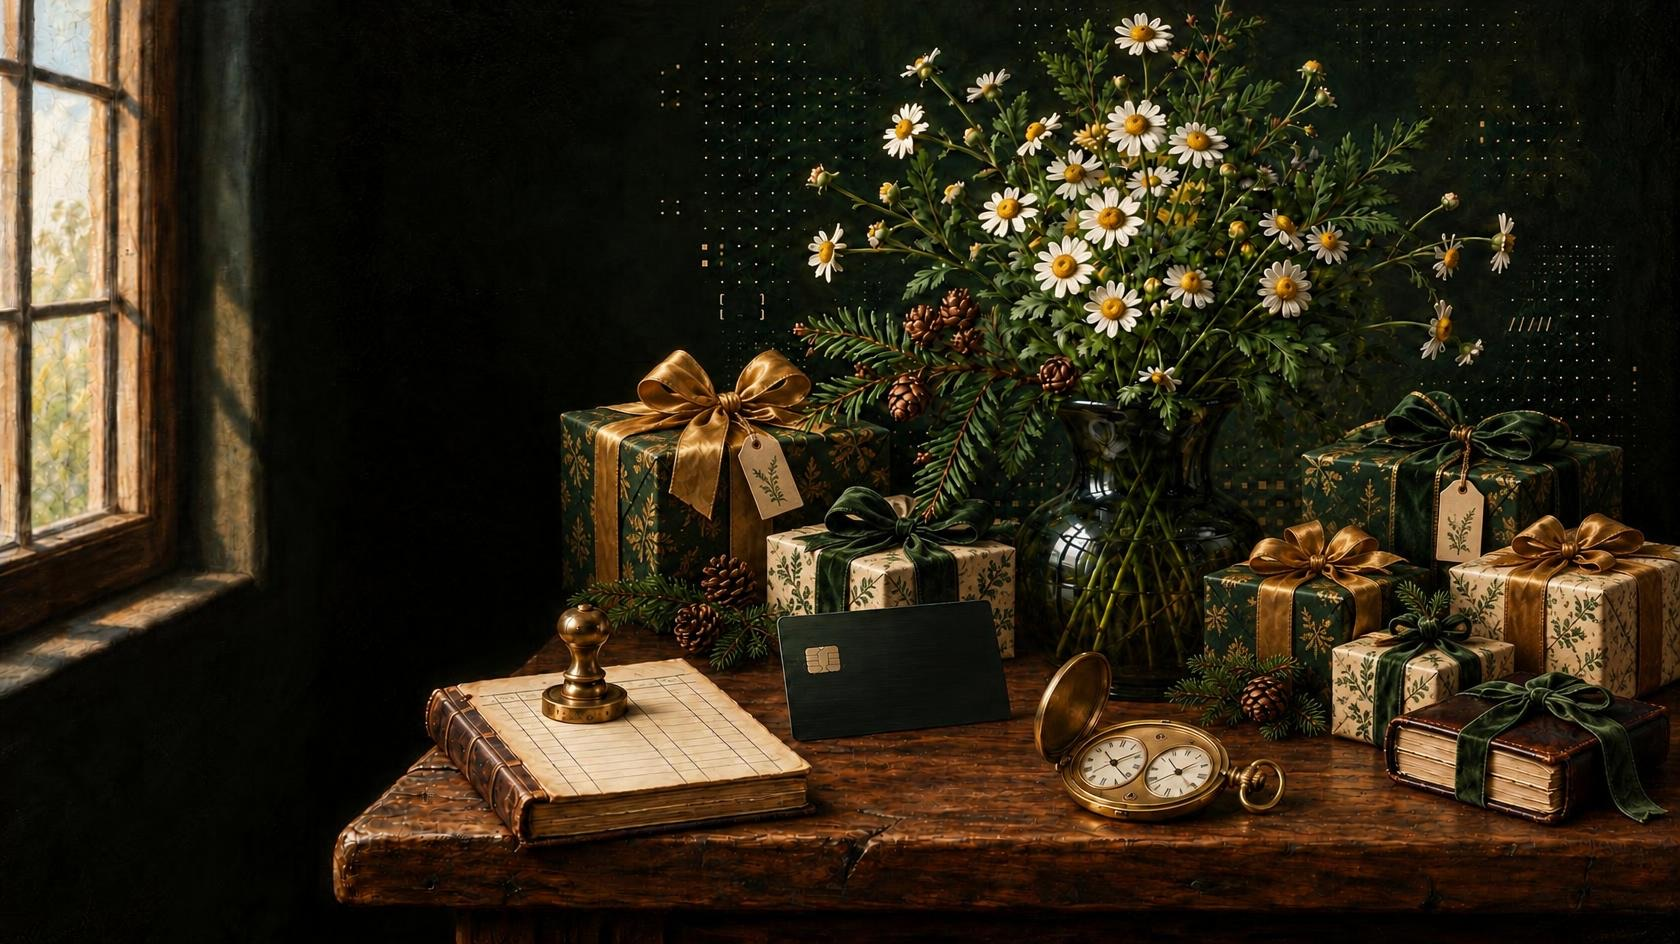
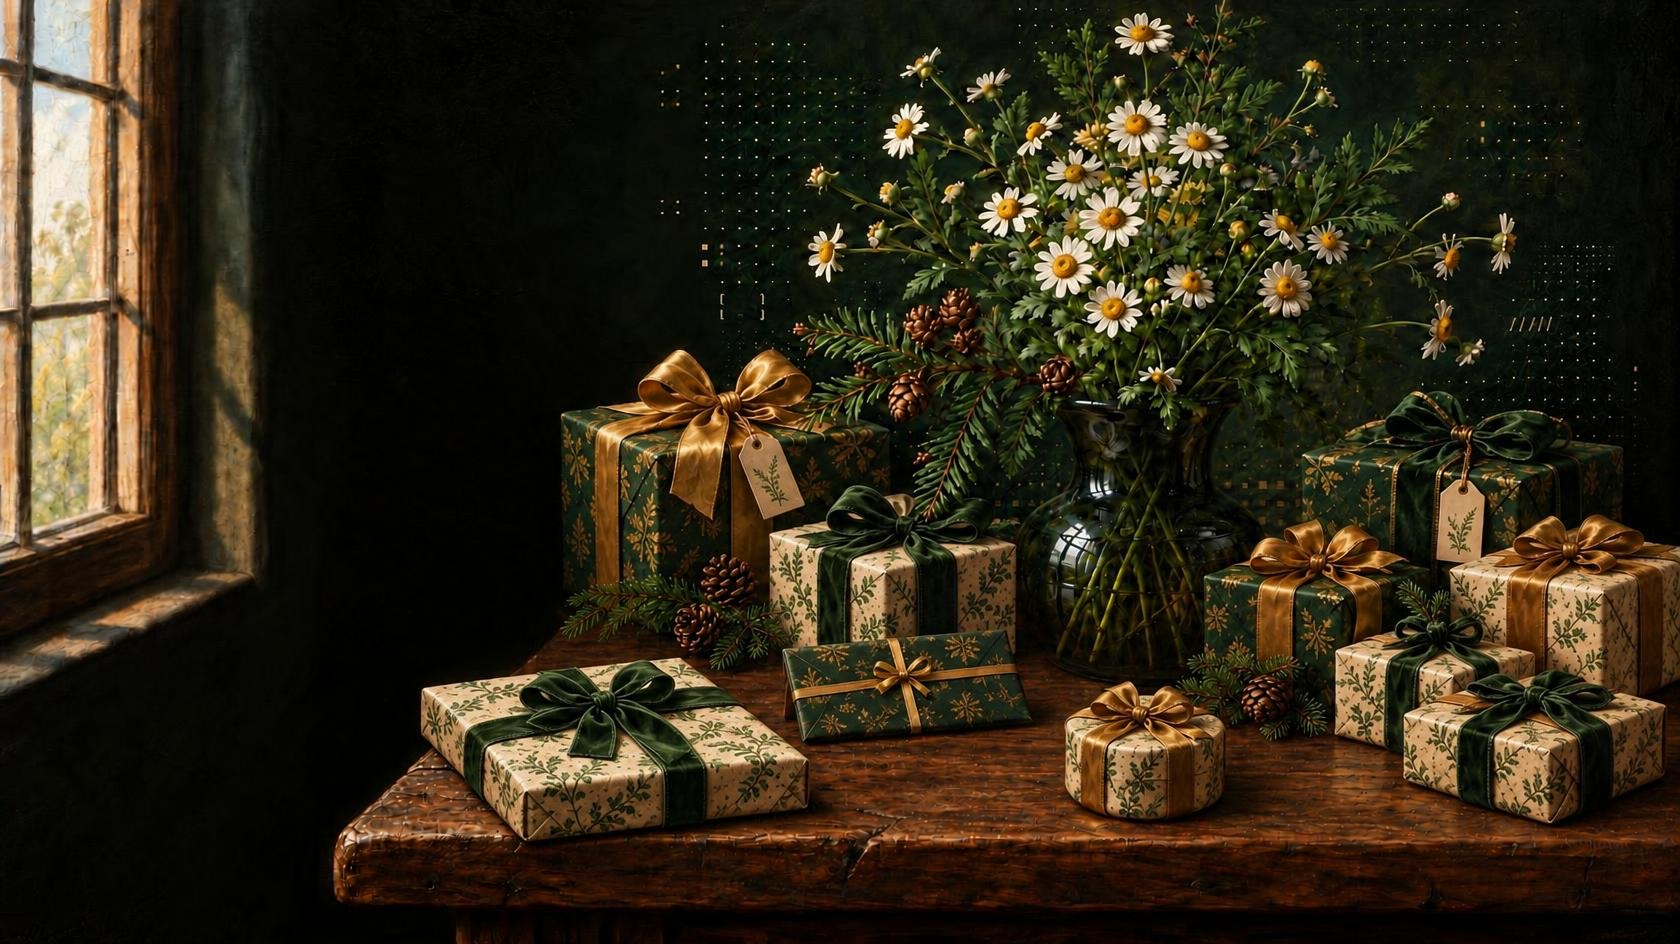
hero: everything wrapped; remove See how it works

diff --git a/x7land/index.html b/x7land/index.html
@@ -26,7 +26,7 @@ nav .links .btn{padding:9px 18px;font-size:13px;color:var(--ink)}
 .story{position:relative;height:100vh}
 .stage{position:sticky;top:0;height:100vh;overflow:hidden}
 .stage .layer{position:absolute;inset:0;background-size:cover;background-position:60% 50%;will-change:transform,opacity}
-#paint{background-image:url(a/still.jpg?v=3)}
+#paint{background-image:url(a/still.jpg?v=4)}
 .stage canvas{position:absolute;inset:0;width:100%;height:100%;opacity:0}
 .shade{position:absolute;inset:0;background:linear-gradient(90deg,rgba(11,42,34,.94) 0%,rgba(11,42,34,.72) 34%,rgba(11,42,34,.08) 62%,rgba(11,42,34,0) 100%),linear-gradient(0deg,rgba(11,42,34,.7),rgba(11,42,34,0) 30%)}
 .copy{position:absolute;left:5vw;top:50%;transform:translateY(-50%);max-width:560px;transition:opacity .5s,transform .5s}
@@ -313,7 +313,7 @@ nav .links .btn{padding:10px 20px;font-size:14px;font-weight:600;background:var(
   <div class="shade" id="shade"></div>
   <div class="copy" id="c1">
    <h1 class="serif">Perks so good you'll want to share them with friends</h1><p class="aside serif">(After you get them for yourself first...)</p>
-      <div class="ctas"><a class="btn" href="sms:+15303064813&body=Show%20me%20some%20perks!">Get your perks</a><a class="btn ghost" href="#inside">See how it works</a></div></div>
+      <div class="ctas"><a class="btn" href="sms:+15303064813&body=Show%20me%20some%20perks!">Get your perks</a></div></div>
   <div class="foot mono"><span></span><span class="pulse">Scroll ↓</span></div>
  </div>
 </section>
@@ -420,7 +420,7 @@ nav .links .btn{padding:10px 20px;font-size:14px;font-weight:600;background:var(
 const $=s=>document.querySelector(s);
 const story=$('#story'),paint=$('#paint'),cv=$('#ascii'),hot=$('#hot');
 const c1=$('#c1');
-const img=new Image(); img.src='a/still.jpg?v=3';
+const img=new Image(); img.src='a/still.jpg?v=4';
 const RAMP=' .:-=+*%#@';
 let cells=[],cw=0,ch=0,ctx=cv.getContext('2d');
 function prep(){
